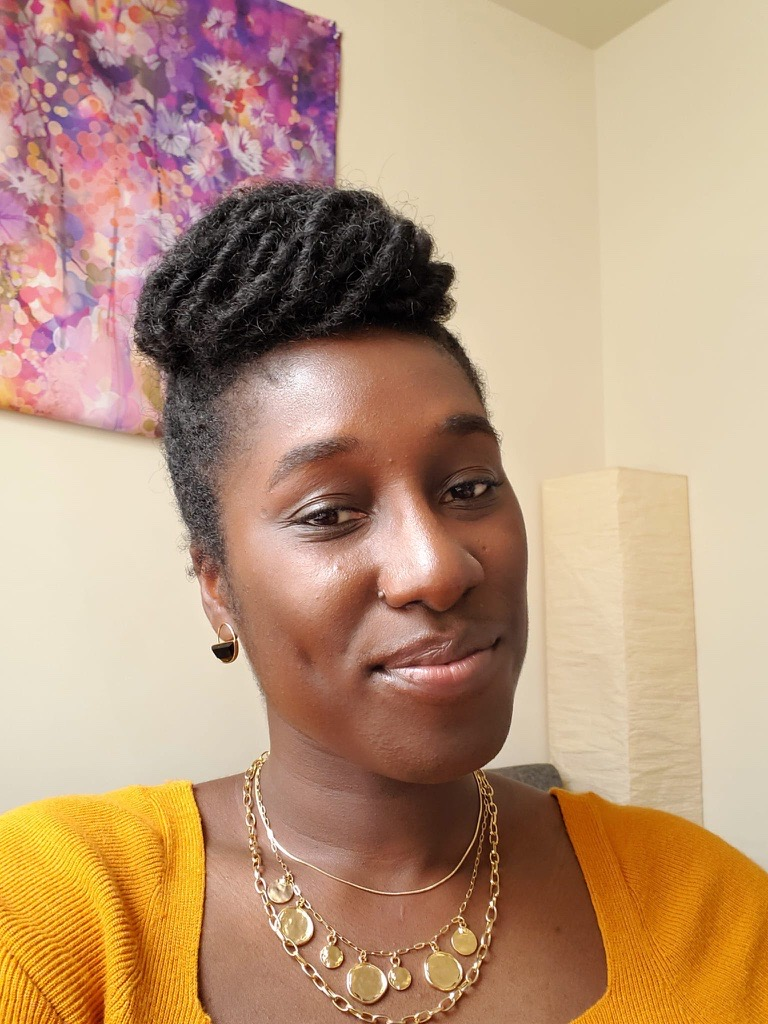
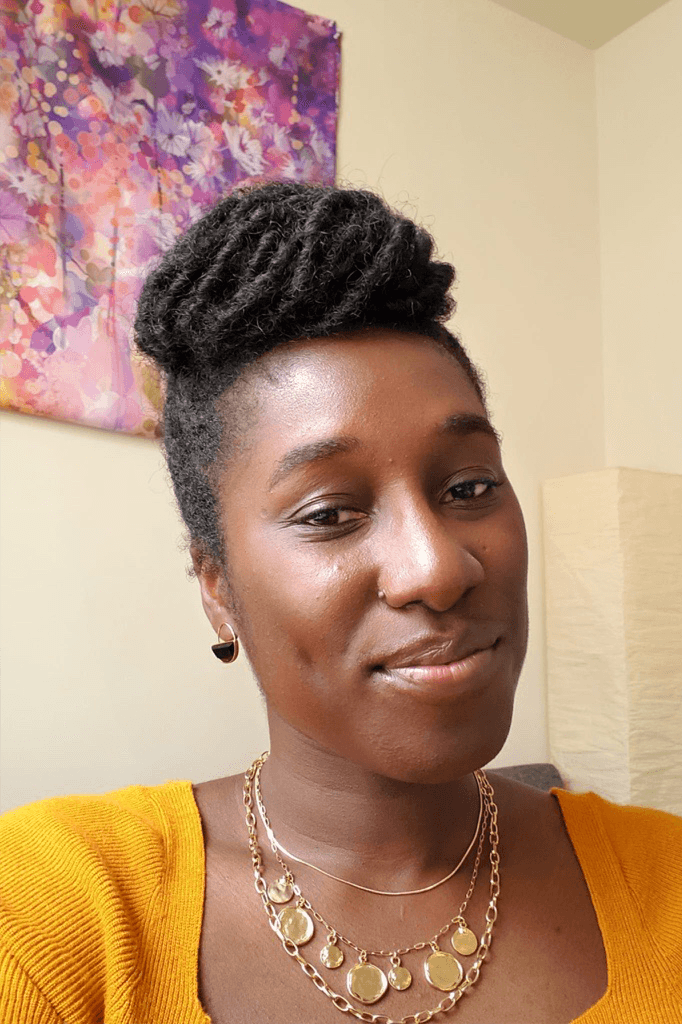
our team updated images, UI fixes

diff --git a/src/modules/Episodes/components/EpisodesIntroduction/index.tsx b/src/modules/Episodes/components/EpisodesIntroduction/index.tsx
@@ -10,8 +10,8 @@ const EpisodesIntroduction = () => {
         <div className="episode-intro-div">
             <div className="wrapper">
                 <h3>Episodes</h3>
-                <h2>From its medieval origins to the digital era, learn everything there is to know about the ubiquitous lorem ipsum passage.</h2>
-                <p>Lorem ipsum dolor sit amet, consectetur adipisicing elit. Minus, magni!</p>
+                <h2>Listen to our premier Igbo podcast, making learning on the go so enjoyable.</h2>
+                {/* <p>Lorem ipsum dolor sit amet, consectetur adipisicing elit. Minus, magni!</p> */}
             </div>
             <div className="text-center podcast-platforms">
                 <p>Get On</p>

diff --git a/src/modules/AboutUs/components/OurTeam/index.tsx b/src/modules/AboutUs/components/OurTeam/index.tsx
@@ -1,7 +1,7 @@
-import ChukwualukaChiama from '../../../../assets/images/1.png';
-import ObinnaWogu from '../../../../assets/images/2.png';
-import ChinemeEzekwenna from '../../../../assets/images/3.png';
-import VictorNwosu from '../../../../assets/images/4.png';
+import ChukwualukaChiama from '../../../../assets/images/Chukwualuka Chiama.png';
+import ObinnaWogu from '../../../../assets/images/Obinna Wogu.png';
+import ChinemeEzekwenna from '../../../../assets/images/Chineme Ezekwenna.png';
+import VictorNwosu from '../../../../assets/images/Victor Nwosu.png';
 import ChibuzoUwakaneme from '../../../../assets/images/Chibuzo Uwakaneme.png'
 import './ourTeam.scss';
 const OurTeam = () => {

diff --git a/src/modules/Transcripts/components/TranscriptsIntroduction/index.tsx b/src/modules/Transcripts/components/TranscriptsIntroduction/index.tsx
@@ -6,8 +6,7 @@ const TranscriptsIntroduction = () => {
         <div className="transcripts-intro-div">
             <div className="wrapper">
                 <h3>Transcripts</h3>
-                <h2>Purchase the transcripts and worksheets to the free
-                    podcast audios</h2>
+                <h2>Supplement your audio learning with our transcripts/worksheet for each corresponding episode.</h2>
                 {/* <p>Lorem ipsum dolor sit amet, consectetur adipisicing elit. Minus, magni!</p> */}
             </div>
             <img src={episodeBorder} alt="episodeBorder" />

diff --git a/src/modules/ExchangeProgram/components/FAQ/index.tsx b/src/modules/ExchangeProgram/components/FAQ/index.tsx
@@ -61,7 +61,7 @@ const FAQ = () => {
             <h2 className="text-center">Frequently Asked Questions</h2>
             <div className="wrapper d-flex justify-content-center mt-3">
                 <div className="accordion-div-faq">
-                    <CustomAccordion list={accordionArray} styleClass="btn-toggle-question" count={8} />
+                    <CustomAccordion list={accordionArray} styleClass="btn-toggle-secondary" count={8} />
                 </div>
             </div>
         </div>

diff --git a/src/modules/Home/components/HomeWhyObodo/index.tsx b/src/modules/Home/components/HomeWhyObodo/index.tsx
@@ -48,7 +48,7 @@ const HomeWhyIgbo = () => {
                 </div>
                 <div>
                     {/* <img src={Image} alt="whyImage"/> */}
-                    <Carousel>
+                    <Carousel interval={2000}>
                         <Carousel.Item>
                             <img
                                 className="d-block w-100"

diff --git a/src/modules/ExchangeProgram/components/FAQ/faq.scss b/src/modules/ExchangeProgram/components/FAQ/faq.scss
@@ -26,7 +26,7 @@
             background: transparent;
             border: none;
             h5 {
-                color: $primary-color;
+                color: $bg-color;
                 font-family: '$font-semi-bold';
                 margin-bottom: 0;
                 padding: 1rem 0;

diff --git a/src/modules/AboutUs/index.tsx b/src/modules/AboutUs/index.tsx
@@ -23,7 +23,7 @@ const AboutUs = () => {
           <OurMission />
           <WhoWeAre />
           <MeetTheFounder />
-          {/* <OurTeam /> */}
+          <OurTeam />
           <CompanyValues />
         </div>
     )

diff --git a/src/index.css b/src/index.css
@@ -2,6 +2,7 @@
   margin: 0;
   padding: 0;
   box-sizing: border-box;
+  user-select: none;
 }
 
 /* .container {
